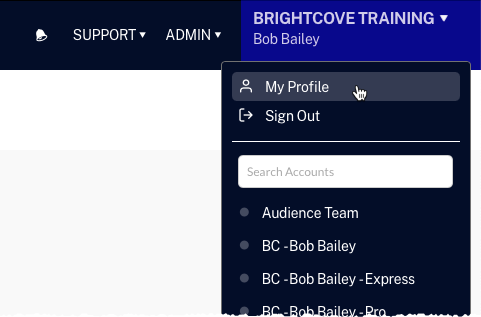
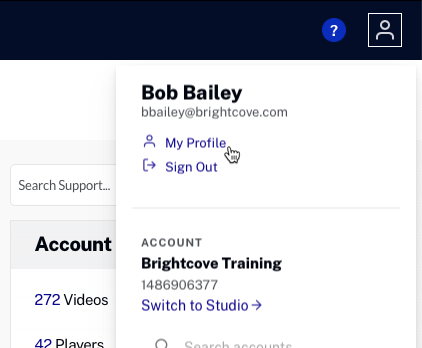
$COMMITMESSAGE

diff --git a/admin/managing-profile-information.html b/admin/managing-profile-information.html
@@ -3,40 +3,4 @@ title: Managing Profile Information
 parent: Administering Accounts
 description: In this topic you will learn how to view and edit your profile information.
 ---
-<article class="bcls-article">
-  <h1>{{ page.title }}</h1>
-  <summary>{{ page.description }}</summary>
-  <section class="bcls-section">
-    <p>Studio users can use the Profile Information page to view and change their own personal account information.</p>
-    <p>To access the Profile Information page:</p>
-    <ol class="bcls-tasklist-restart">
-      <li>Login to Studio.</li>
-      <li>In the right side of the navigation header, click the account selector and then the <strong>My Profile</strong> link.
-        <figure class="bcls-figure"><img class="bcls-image--no-border" alt="Profile information link" src="/assets/images/admin/node15474-my-profile.png" /></figure>
-      </li>
-    </ol>
-  </section>
-  <section class="bcls-section">
-    <h2 id="Editing_profile_information">Editing profile information</h2>
-    <p>Any of the fields in the Profile Information section can be edited. Click <strong>Save Changes</strong> to save the changes.</p>
-    <figure class="bcls-figure"><img class="bcls-image--no-border" alt="" src="/assets/images/admin/node15474-edit-profile.png" /></figure>
-    <p>Notes on editing:</p>
-    <ul>
-      <li>You can't change your email address. If you need to change your email address, a  account with the correct address needs to be created. The primary account administrator can do this.</li>
-      <li>You can change your password but you must verify your current password</li>
-      <li>Passwords need to be no shorter than 8 letters and contain at least one number and one letter</li>
-      <li>The time zone that you set here is used when you schedule the activation date and time for a video. You can schedule the activation start and end date for a video by navigating to Studio's <strong>Media</strong> module, selecting the details for a video and then editing the <a href="/media/editing-video-properties-using-media-module.html#availability">Availability</a> section.</li>
-      <li>You can use the Language dropdown to select the Studio language:
-        <ul>
-          <li>English</li>
-          <li>Spanish (Spain)</li>
-          <li>Japanese</li>
-          <li>French (France)</li>
-          <li>Chinese (Traditional)</li>
-          <li>Korean</li>
-        </ul>
-      </li>
-    </ul>
-    <aside class="bcls-aside bcls-aside--information">Note: If you are an Administrator, you can use the <a href="/admin/managing-users.html">Managing Users</a> page in Studio to change a user's password and role.</aside>
-  </section>
-</article>
+{% include s-admin/managing-profile-information.html %}

diff --git a/_site/admin/managing-profile-information.html b/_site/admin/managing-profile-information.html
@@ -1304,16 +1304,16 @@ function doGTranslate(lang_pair) {if(lang_pair.value)lang_pair=lang_pair.value;i
     <p>Studio users can use the Profile Information page to view and change their own personal account information.</p>
     <p>To access the Profile Information page:</p>
     <ol class="bcls-tasklist-restart">
-      <li>Login to Studio.</li>
-      <li>In the right side of the navigation header, click the account selector and then the <strong>My Profile</strong> link.
-        <figure class="bcls-figure"><img class="bcls-image--no-border" alt="Profile information link" src="/assets/images/admin/node15474-my-profile.png" /></figure>
+      <li>Login to Video Cloud Studio.</li>
+      <li>In the right side of the navigation header, click the profile icon and then the <strong>My Profile</strong> link.
+        <figure class="bcls-figure"><img class="bcls-image--no-border" alt="Profile information link" src="/assets/images/s-admin-img/node15474-my-profile.png" /></figure>
       </li>
     </ol>
   </section>
   <section class="bcls-section">
     <h2 id="Editing_profile_information">Editing profile information</h2>
     <p>Any of the fields in the Profile Information section can be edited. Click <strong>Save Changes</strong> to save the changes.</p>
-    <figure class="bcls-figure"><img class="bcls-image--no-border" alt="" src="/assets/images/admin/node15474-edit-profile.png" /></figure>
+    <figure class="bcls-figure"><img class="bcls-image--no-border" alt="" src="/assets/images/s-admin-img/node15474-edit-profile.png" /></figure>
     <p>Notes on editing:</p>
     <ul>
       <li>You can't change your email address. If you need to change your email address, a  account with the correct address needs to be created. The primary account administrator can do this.</li>
